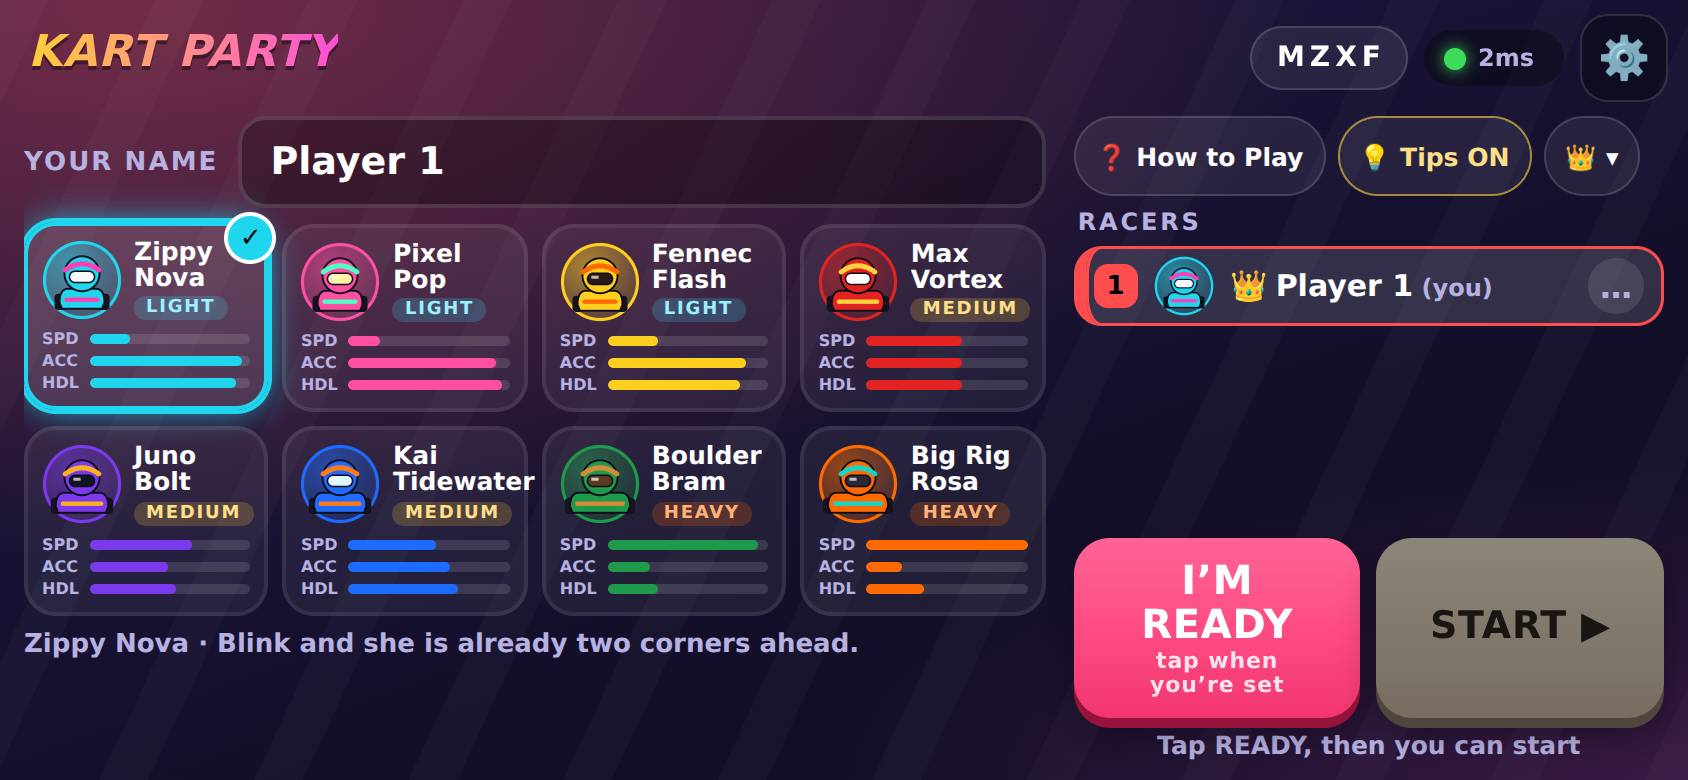
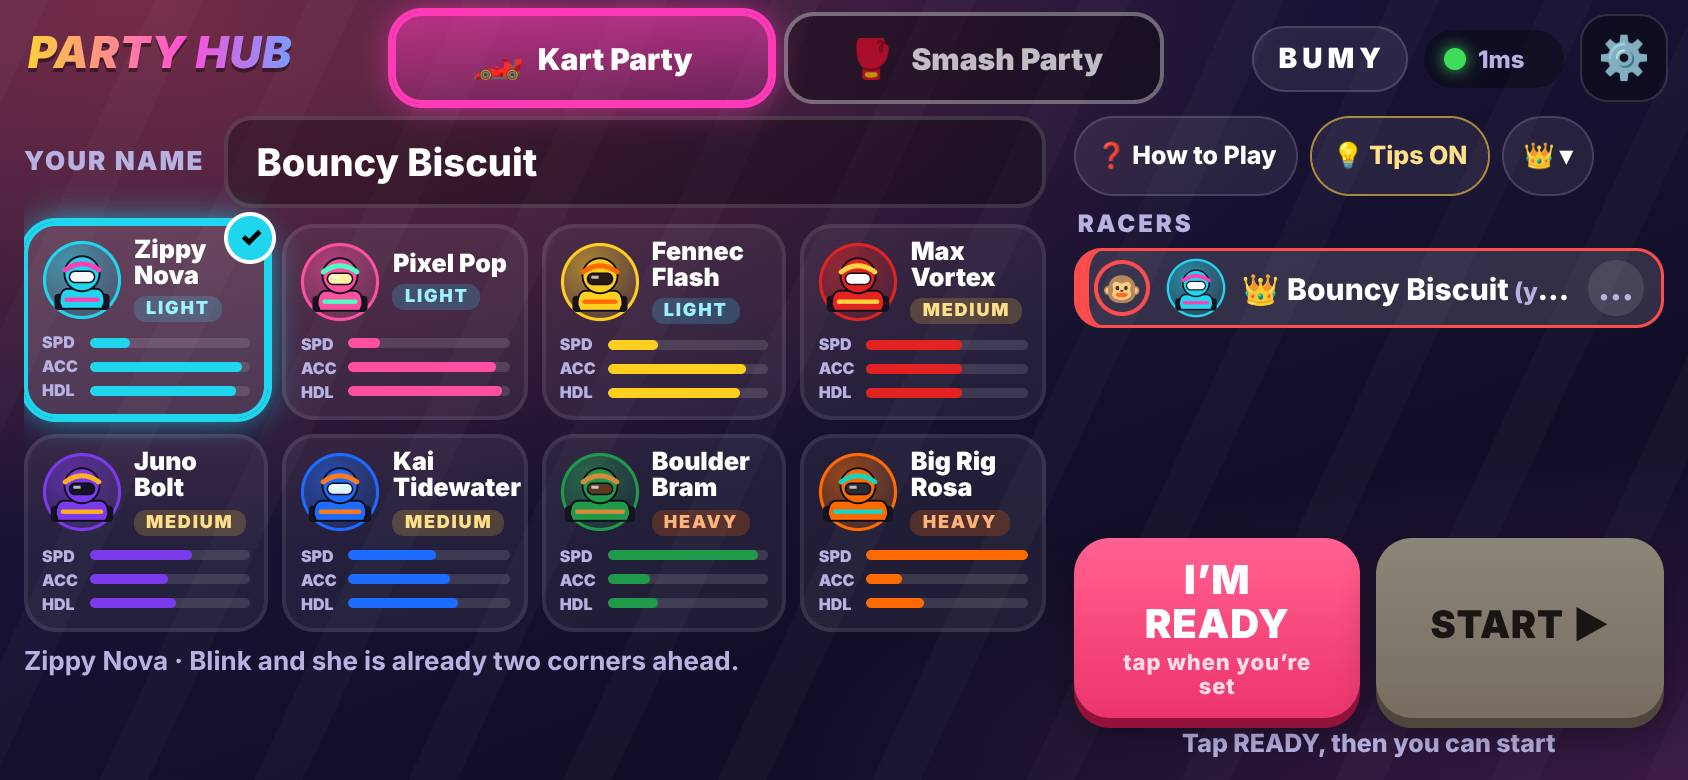
Party Rush: Shake Race, Quick Draw, Hot Potato, Don't Move!; drawEmoji alpha fix
Claude-Session: https://claude.ai/code/session_01KWX2bMofx8Et7p6Czs5Rjk

diff --git a/src/games/rush/minigames/quick-draw.ts b/src/games/rush/minigames/quick-draw.ts
@@ -84,7 +84,6 @@ export const quickDraw: MinigameDef = {
     let revealSec = 1.5;
     let drawAt = 0;
     let fastest: Cowboy | null = null;
-    let lastViewT = 0;
     let drawFlashT = -10;
     let tokenR = 60;
     let rows = 1;
@@ -133,7 +132,7 @@ export const quickDraw: MinigameDef = {
 
     function startDraw(): void {
       drawAt = ctx.time;
-      drawFlashT = lastViewT;
+      drawFlashT = ctx.time;
       for (const c of boys) {
         if (!present(c) || c.cur) continue;
         c.drawCue = ctx.cue(c.p.id, { fx: 'go', word: 'DRAW!', bg: GREEN });
@@ -148,7 +147,7 @@ export const quickDraw: MinigameDef = {
       for (const c of boys) {
         if (!c.cur && c.drawCue && present(c)) {
           c.cur = { kind: 'miss', t: T.outSec };
-          c.popT = lastViewT;
+          c.popT = ctx.time;
           ctx.cue(c.p.id, { fx: 'bad', word: 'TOO SLOW', bg: '#555b6e' });
         }
         if (c.cur) c.shots[drawIdx] = c.cur;
@@ -178,7 +177,7 @@ export const quickDraw: MinigameDef = {
       const ms = e.ms ?? (ctx.time - drawAt) * 1000;
       const t = clamp(ms / 1000, 0.05, T.outSec);
       c.cur = { kind: 'ok', t };
-      c.popT = lastViewT;
+      c.popT = ctx.time;
       ctx.cue(c.p.id, { fx: 'good', word: `${t.toFixed(2)} s`, bg: GREEN });
       ctx.sfx('thud', { pan: (c.x / STAGE_W) * 2 - 1, vol: 0.5 });
     }
@@ -186,7 +185,7 @@ export const quickDraw: MinigameDef = {
     function out(c: Cowboy): void {
       c.cur = { kind: 'out', t: T.outSec };
       c.early++;
-      c.popT = lastViewT;
+      c.popT = ctx.time;
       ctx.cue(c.p.id, { fx: 'bad', word: 'OUT', bg: PAL.bad });
       ctx.sfx('buzz', { pan: (c.x / STAGE_W) * 2 - 1, vol: 0.7 });
     }
@@ -321,7 +320,7 @@ export const quickDraw: MinigameDef = {
     function drawFakes(g: CanvasRenderingContext2D, t: number): void {
       for (const f of fakes) {
         if (!f.fired) continue;
-        const dt = t - f.t0;
+        const dt = ctx.time - f.t0;
         if (f.kind === 'tumbleweed' && dt < 2.6) {
           const x = lerp(-120, STAGE_W + 120, dt / 2.6);
           const y = GROUND_Y + 40 - Math.abs(Math.sin(dt * 7)) * 50;
@@ -370,9 +369,9 @@ export const quickDraw: MinigameDef = {
       if (phase === 'wait') {
         // latest word fake wins the banner, else "wait for it…"
         let fw: Fake | null = null;
-        for (const f of fakes) if (f.fired && f.kind === 'word' && t - f.t0 < 0.9) fw = f;
+        for (const f of fakes) if (f.fired && f.kind === 'word' && ctx.time - f.t0 < 0.9) fw = f;
         if (fw) {
-          const k = ease.outBack(clamp01((t - fw.t0) / 0.18));
+          const k = ease.outBack(clamp01((ctx.time - fw.t0) / 0.18));
           drawText(g, fw.text, 960, y, 200 * k, '#ffb020');
         } else {
           const dots = '.'.repeat(1 + (Math.floor(t * 2.5) % 3));
@@ -381,7 +380,7 @@ export const quickDraw: MinigameDef = {
         return;
       }
       if (phase === 'draw') {
-        const k = ease.outBack(clamp01((t - drawFlashT) / 0.15));
+        const k = ease.outBack(clamp01((ctx.time - drawFlashT) / 0.15));
         drawText(g, 'DRAW!', 960, y, 240 * k, GREEN, { outline: 22 });
         return;
       }
@@ -465,7 +464,7 @@ export const quickDraw: MinigameDef = {
           for (const f of fakes) {
             if (!f.fired && now >= f.at) {
               f.fired = true;
-              f.t0 = lastViewT;
+              f.t0 = ctx.time;
               ctx.sfx(f.kind === 'tumbleweed' ? 'whoosh' : f.kind === 'crow' ? 'honk' : f.kind === 'bell' ? 'ding' : 'boing', { vol: 0.8 });
             }
           }
@@ -490,7 +489,6 @@ export const quickDraw: MinigameDef = {
       },
       render(g, v: RenderView) {
         const t = v.t;
-        lastViewT = t;
         if (!final && (phase === 'over' || v.phase === 'results')) {
           final = new Map();
           const ranked = rankBy(boys.filter(present).map((c) => ({ id: c.p.id, c, s: score(c) })), (x) => x.s.avg, true);
@@ -499,7 +497,7 @@ export const quickDraw: MinigameDef = {
         background(g);
         drawFakes(g, t);
         // DRAW flash
-        const fl = t - drawFlashT;
+        const fl = ctx.time - drawFlashT;
         if (fl < 0.35) {
           g.fillStyle = `rgba(255,255,255,${0.55 * (1 - fl / 0.35)})`;
           g.fillRect(0, 0, STAGE_W, STAGE_H);
@@ -510,7 +508,7 @@ export const quickDraw: MinigameDef = {
           const on = present(c);
           const isFast = final ? final.get(c)?.place === 1 : c === fastest && phase === 'reveal';
           const sway = phase === 'wait' ? Math.sin(t * 2 + c.idx) * 3 : 0;
-          const jump = c.cur?.kind === 'ok' ? Math.max(0, 1 - (t - c.popT) * 4) * 20 : 0;
+          const jump = c.cur?.kind === 'ok' ? Math.max(0, 1 - (ctx.time - c.popT) * 4) * 20 : 0;
           g.fillStyle = '#000'; // emoji/touch badge alpha follows fillStyle
           drawToken(g, c.p, c.x + sway, c.y - jump, tokenR, { dim: !on, touchBadge: false, ring: isFast ? PAL.gold : c.cur?.kind === 'out' ? PAL.bad : undefined });
           hat(g, c.x + sway, c.y - jump - tokenR * 0.8, tokenR, c.p.color);
@@ -525,7 +523,7 @@ export const quickDraw: MinigameDef = {
             const bg = fin.place === 1 ? '#b8860b' : fin.place === 2 ? '#6b7280' : fin.place === 3 ? '#9a5a2c' : 'rgba(0,0,0,0.55)';
             chip(g, fin.allOut ? 'OUT' : `#${fin.place} · ${fin.avg.toFixed(3)}`, c.x, sy, cs * 0.9, bg);
           } else if (c.cur) {
-            const pop = ease.outBack(clamp01((t - c.popT) / 0.2));
+            const pop = ease.outBack(clamp01((ctx.time - c.popT) / 0.2));
             if (c.cur.kind === 'ok') chip(g, `${c.cur.t.toFixed(3)}`, c.x, sy, cs * (0.6 + 0.4 * pop), isFast ? '#b8860b' : '#15803d');
             else if (c.cur.kind === 'out') chip(g, 'TOO EARLY!', c.x, sy, cs * 0.85 * (0.6 + 0.4 * pop), PAL.bad);
             else chip(g, 'MISS', c.x, sy, cs, '#555b6e');

diff --git a/src/games/rush/minigames/shake-race.ts b/src/games/rush/minigames/shake-race.ts
@@ -251,8 +251,8 @@ export const shakeRace: MinigameDef = {
       const tokenY = r.cy + r.ch / 2 - tokenR - Math.max(22, tokenR * 0.62) - 14;
       const bottomY = tokenY - tokenR - 16;
       const top = r.cy - r.ch / 2 + 12;
-      const H = Math.min(bottomY - top - 50, r.cw * 1.1, 520);
-      const W = Math.min(H * 0.48, r.cw * 0.3);
+      const H = Math.min(bottomY - top - 34, r.cw * 1.1, 520);
+      const W = Math.min(H * 0.48, r.cw * 0.34);
       const shake = r.finishAt === null ? Math.sin(t * 40 + r.idx) * 7 * r.eff : 0;
       const tilt = r.finishAt === null ? Math.sin(r.phase) * 0.12 * r.eff : 0;
       const bx = r.cx;

diff --git a/src/games/rush/minigames/dont-move.ts b/src/games/rush/minigames/dont-move.ts
@@ -367,7 +367,7 @@ export const dontMove: MinigameDef = {
         const now = ctx.time;
         for (const d of ds) {
           const dt = now - d.at;
-          if (d.started && dt >= 0 && dt < d.len) drawDistraction(g, d, t, dt);
+          if (v.phase === 'play' && d.started && dt >= 0 && dt < d.len) drawDistraction(g, d, t, dt);
         }
         if (v.phase === 'count') {
           g.fillStyle = 'rgba(8,21,38,0.55)';

diff --git a/src/games/rush/draw.ts b/src/games/rush/draw.ts
@@ -62,6 +62,8 @@ export function drawEmoji(g: CanvasRenderingContext2D, emoji: string, x: number,
   g.save();
   g.globalAlpha *= alpha;
   g.font = `${Math.round(size)}px ${EMOJI_FONT}`;
+  // Colour emoji take the alpha of the current fillStyle in Chrome: always draw with an opaque one.
+  g.fillStyle = '#000';
   g.textAlign = 'center';
   g.textBaseline = 'middle';
   // Emoji glyphs sit slightly high in most fonts.

diff --git a/docs/PARTY_RUSH_CONTRACT.md b/docs/PARTY_RUSH_CONTRACT.md
@@ -270,3 +270,7 @@ Durations are hard caps per heat [1,2,3] (seconds). "Scale" = behaviour at 1 / 2
   phone without re-firing the triple cue; `flick`/`tap`/`pose` events must carry `ms` + `c` whenever a cue
   is up; the `pose` stream must keep reporting the held pose (Copy the Pose relies on it when the player
   already holds the target pose).
+- LEAD: `drawEmoji` sets an opaque fillStyle (Chrome tints colour emoji with the fill alpha). Found by MG1.
+- MG1/MG2 deviations accepted: Don't Move! ranks by mean per-sample movement `a` (not `c`, which saturates
+  and is skewed by dropped packets); Hot Potato caps catch grace at 0.8 s past the fuse; Tilt Maze generates
+  seeded, length-checked layouts per round instead of hand-made ones; Quick Draw raise window 600 ms.
